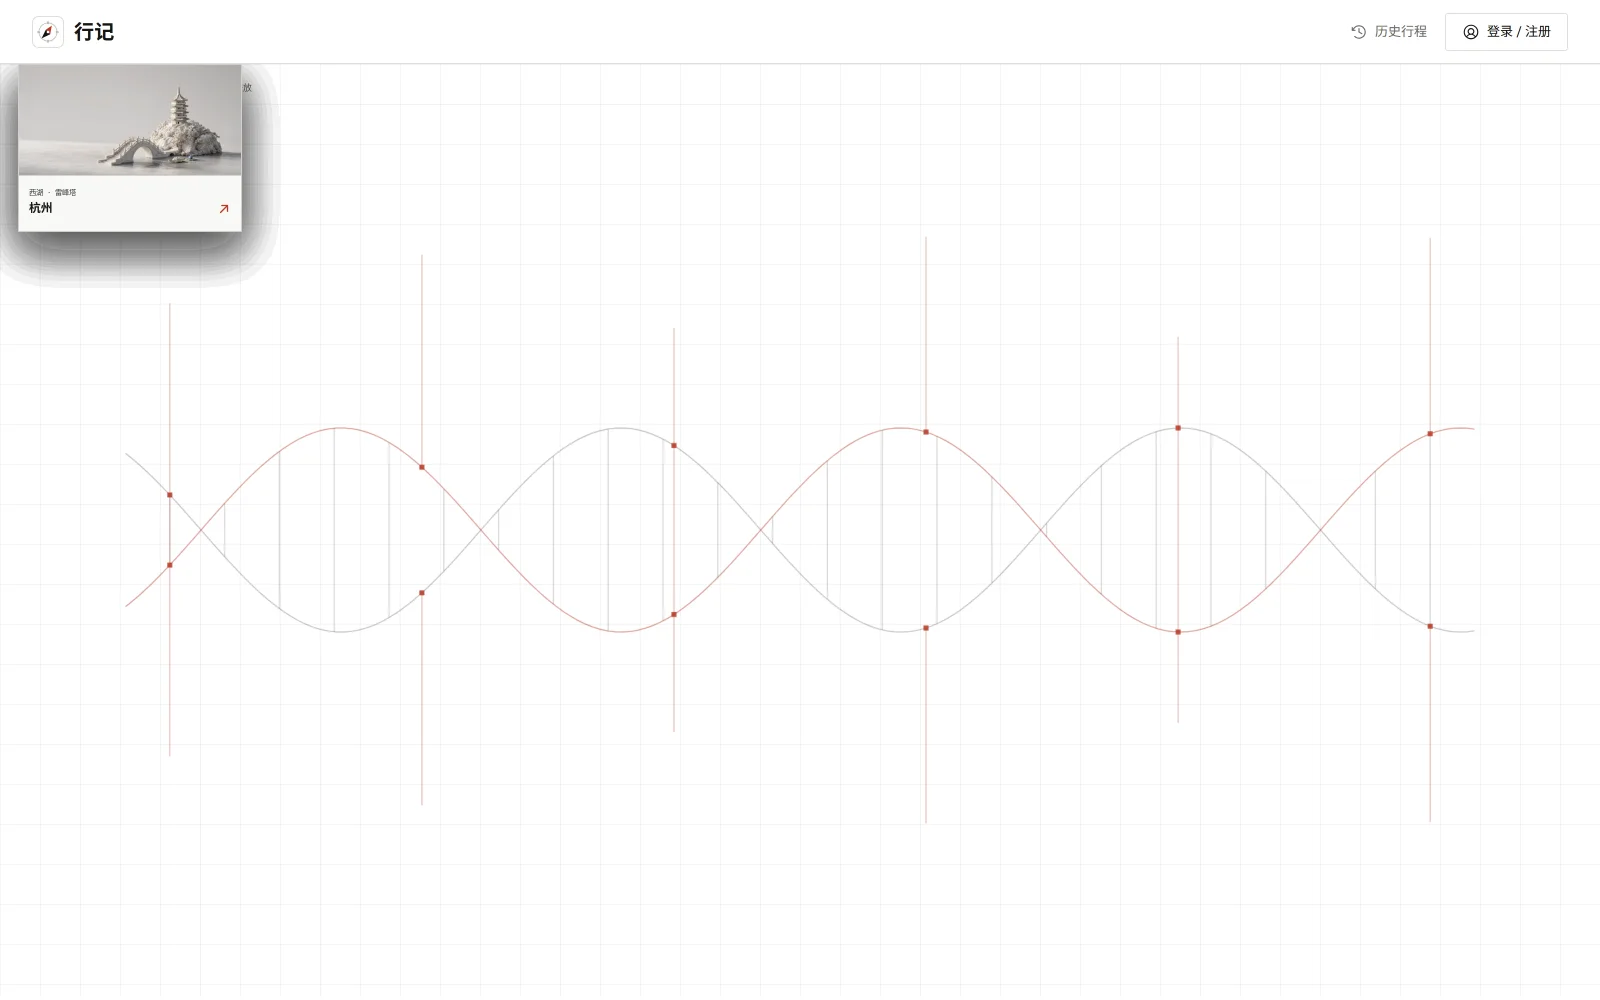
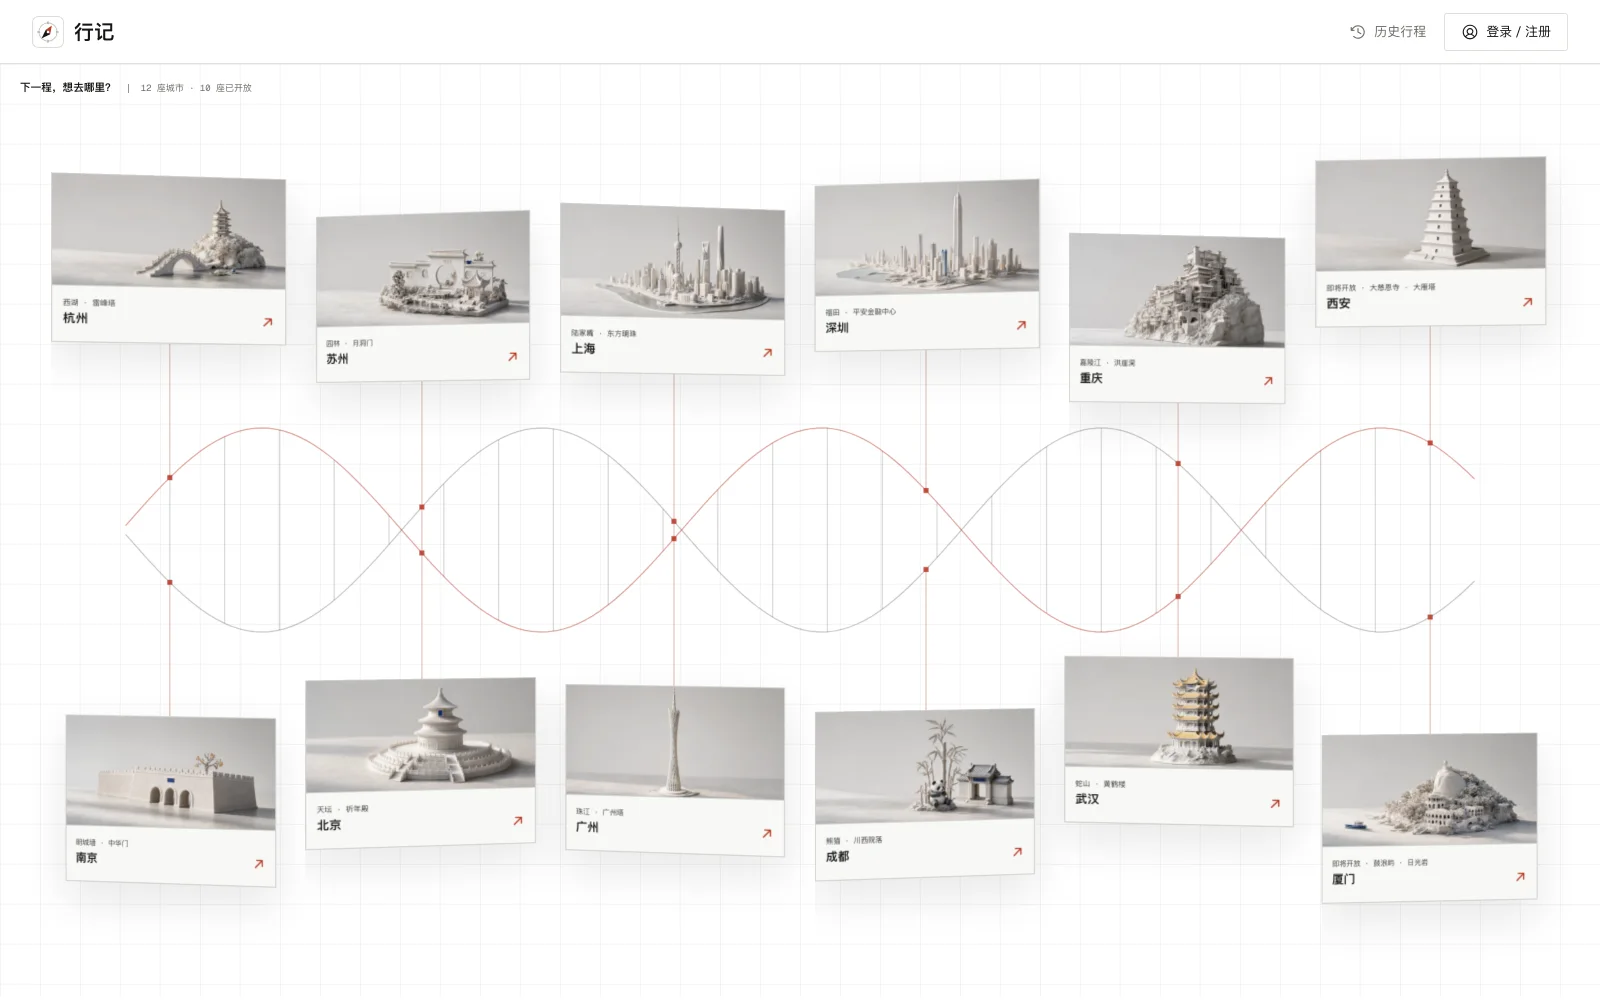
Recapture the Xingji home page with every city on the helix
The screenshot on the travel agent post showed all 12 city cards piled up
in the top-left corner. Xingji's reduced-motion stylesheet sets
`transform: none !important` on everything in the page, which also strips
the transform that places each card on the helix, and the capture script
shoots with reduced motion on.

- Capture Xingji with motion on, and wait until the helix has opened and
  every card sits on its own spot, fully opaque, before shooting.
- Recapture all three sizes: 12 cities, ten open, Xi'an and Xiamen marked
  as coming soon.
- Rewrite the caption and alt text, in both languages, to match. The old
  ones described the pile as "the Hangzhou card in the top-left corner".
- Add the missing TRAVEL_AGENT_CAPTURE_ORIGIN to .env.example.

The reduced-motion bug itself is in Xingji and gets its own fix there.

diff --git a/src/i18n/portfolioTranslations.ts b/src/i18n/portfolioTranslations.ts
@@ -25,8 +25,8 @@ export const portfolioTranslations: Record<string, string> = {
   "原表停留时长不到模型典型值一半的，按模型区间调长，只加不减": "Stay durations under half the model's typical value are lengthened to the model's range, never shortened",
   "同时满足游乐园类型、门票不低于 150 元、典型时长不少于 5 小时、名字像乐园的，按整天游玩、园内用餐处理": "Places that are amusement parks, charge at least 150 yuan, have a typical duration of five hours or more, and are named like parks are treated as full-day visits with meals inside",
   "偏长的时长、0 元门票的乐园和游船、可能要预约的校园、名称相近的疑似重复条目，都只列入待核清单。": "Durations that look too long, free-admission parks and boat rides, campuses that may need reservations, and near-duplicate names only go onto a pending list.",
-  "行记首页截图，城市节点沿一条螺旋线排开，左上角是杭州的城市卡片": "Screenshot of the Xingji home page, with city nodes laid out along a helix and the Hangzhou city card in the top-left corner",
-  "行记的首页：城市沿一条螺旋排开，左上角是杭州的城市卡片。": "The Xingji home page: cities are laid out along a helix, with the Hangzhou card in the top-left corner.",
+  "行记首页截图，12 张城市卡片挂在一条双螺旋线的上下两侧，西安和厦门标着即将开放": "Screenshot of the Xingji home page, with 12 city cards hanging above and below a double helix, and Xi'an and Xiamen marked as coming soon",
+  "行记的首页：12 座城市沿一条螺旋排开，其中 10 座已开放，西安和厦门标着即将开放。": "The Xingji home page: 12 cities are laid out along a helix. Ten are open, and Xi'an and Xiamen are marked as coming soon.",
   "桌搭照片说明": "Notes on the desk photos",
   "家里的桌搭": "The desk at home",
   "寝室的桌搭": "The desk in the dorm",

diff --git a/src/blog.ts b/src/blog.ts
@@ -197,8 +197,8 @@ export const blogPosts: BlogPost[] = [
             src: "/assets/travel-agent-1600.webp",
             width: 1600,
             height: 1000,
-            alt: "行记首页截图，城市节点沿一条螺旋线排开，左上角是杭州的城市卡片",
-            caption: "行记的首页：城市沿一条螺旋排开，左上角是杭州的城市卡片。",
+            alt: "行记首页截图，12 张城市卡片挂在一条双螺旋线的上下两侧，西安和厦门标着即将开放",
+            caption: "行记的首页：12 座城市沿一条螺旋排开，其中 10 座已开放，西安和厦门标着即将开放。",
           },
         ],
       },
